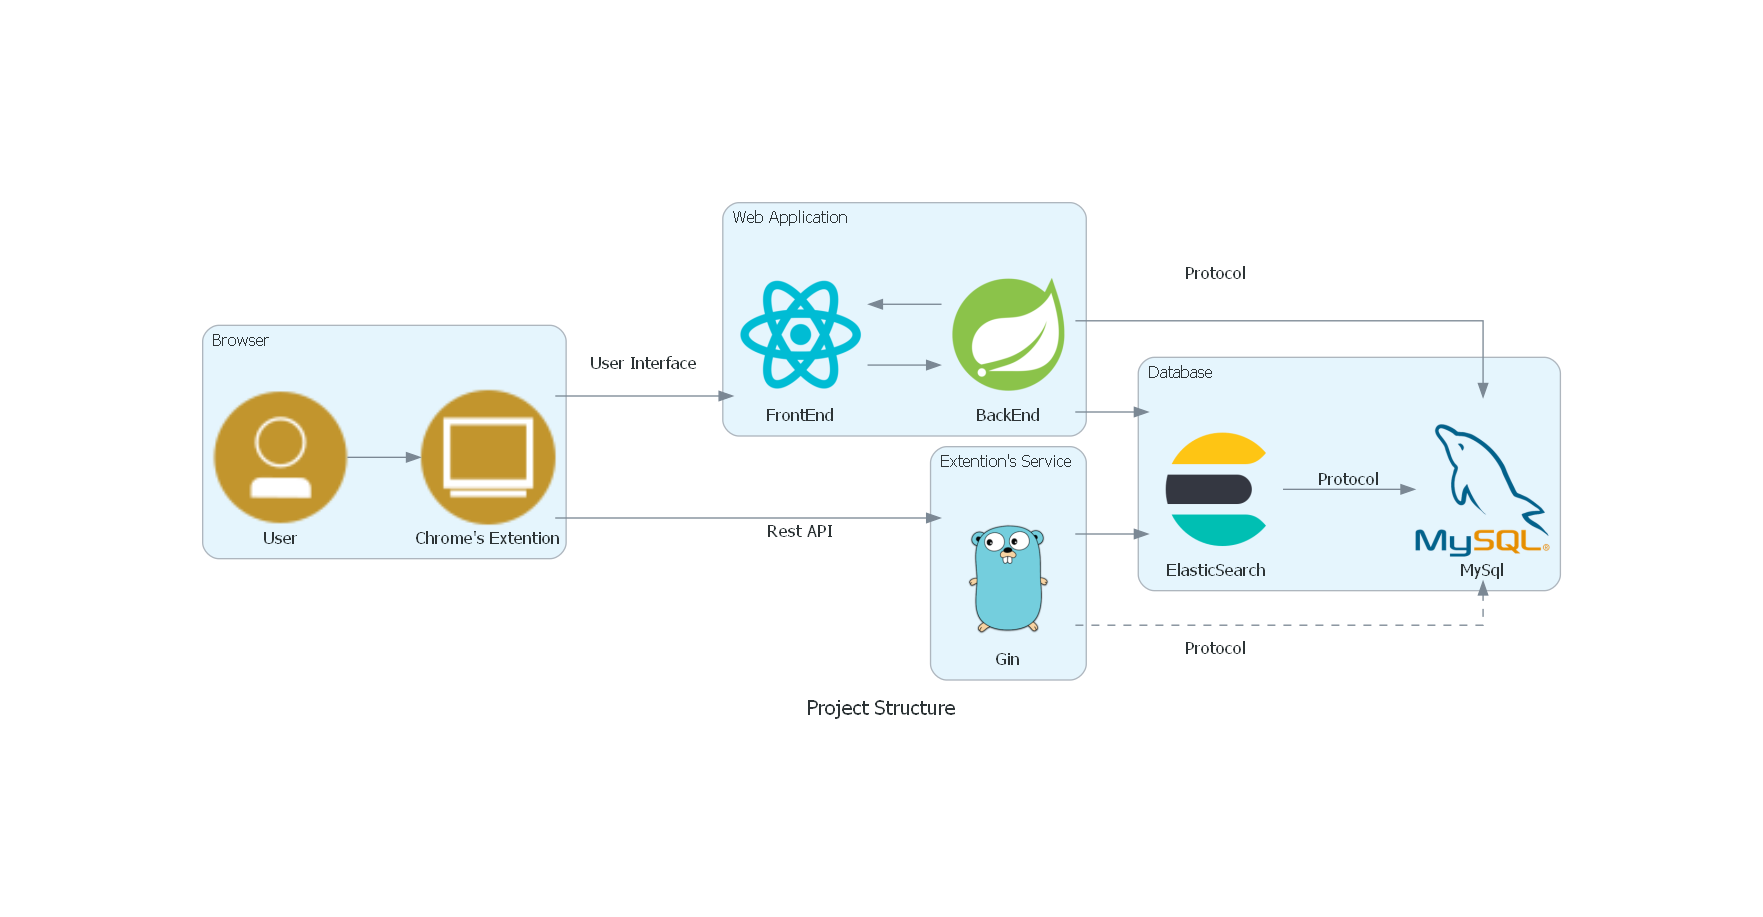
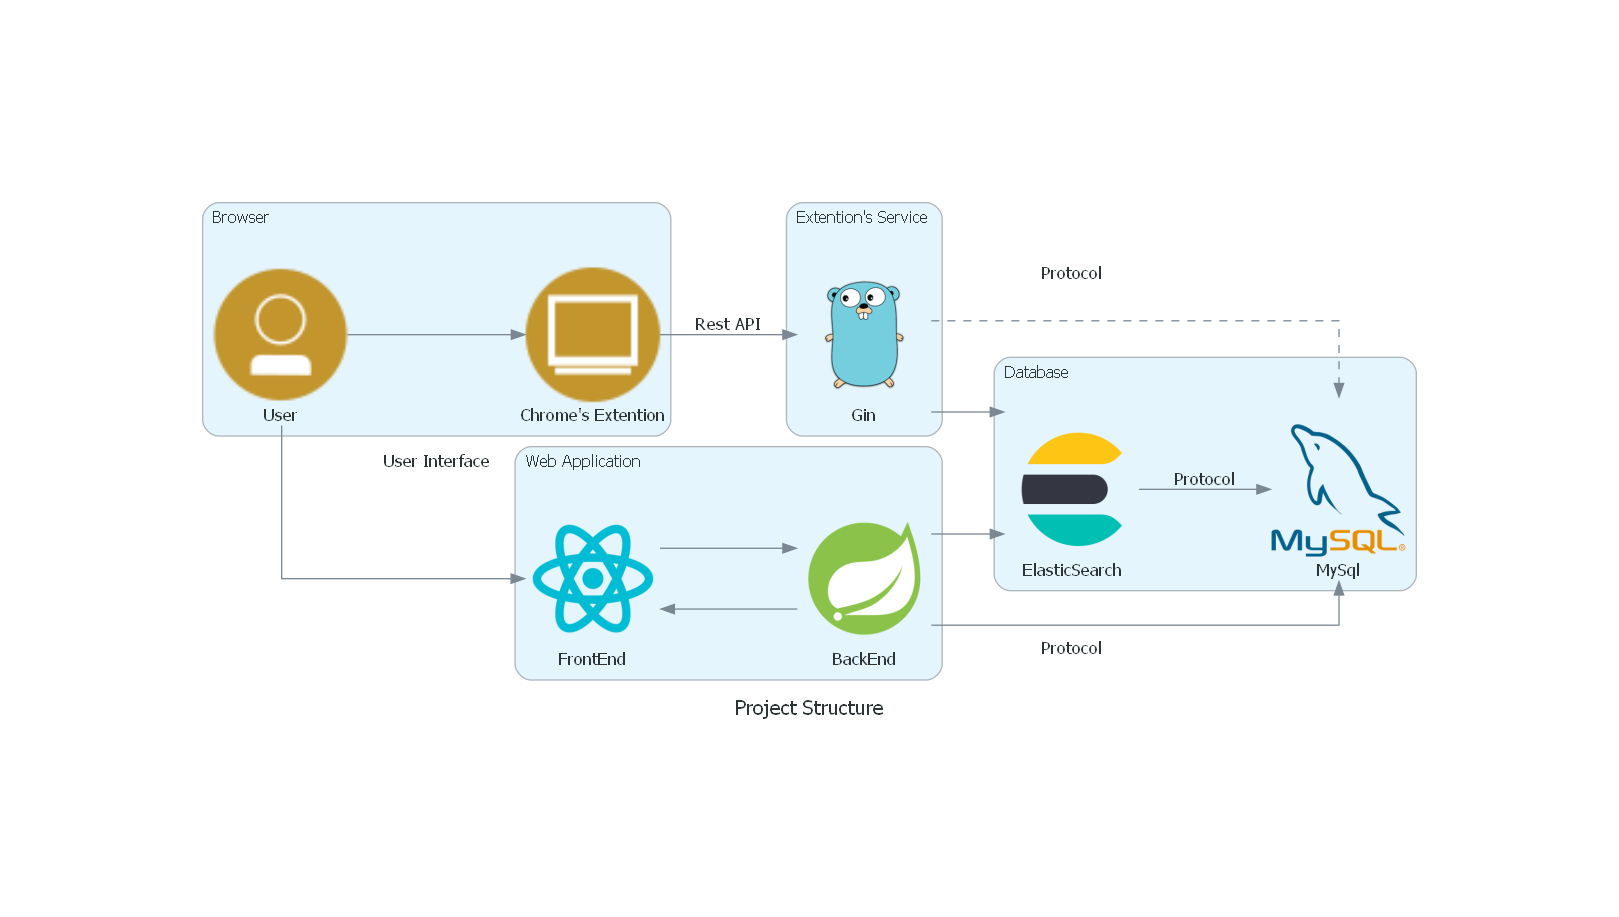
Updated diagram's script

Changed region(s): [[0.0926, 0.2137, 0.8956, 0.7939], [0.6485, 0.7023, 0.7103, 0.7328], [0.6485, 0.2748, 0.7103, 0.3053]]

diff --git a/project_structure.py b/project_structure.py
@@ -19,7 +19,7 @@ with Diagram("Project Structure", filename="structure", strict=True):
         react >> spring
         spring >> react
 
-        brower >> Edge(label="User Interface") >> react
+        user >> Edge(label="User Interface") >> react
 
     with Cluster("Extention's Service"):
         go = GoLang(label="Gin")
